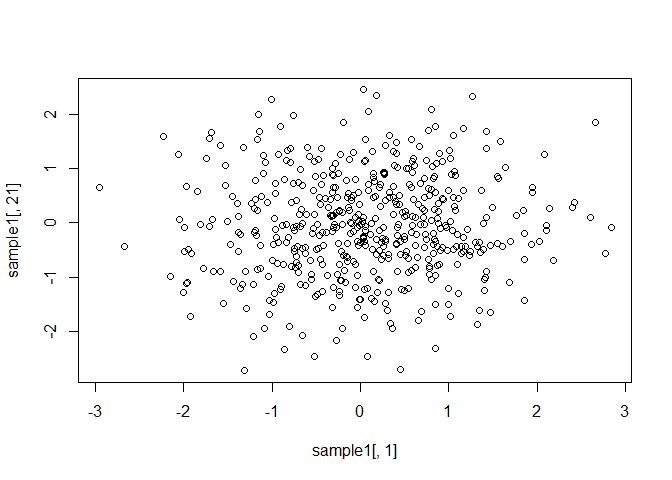
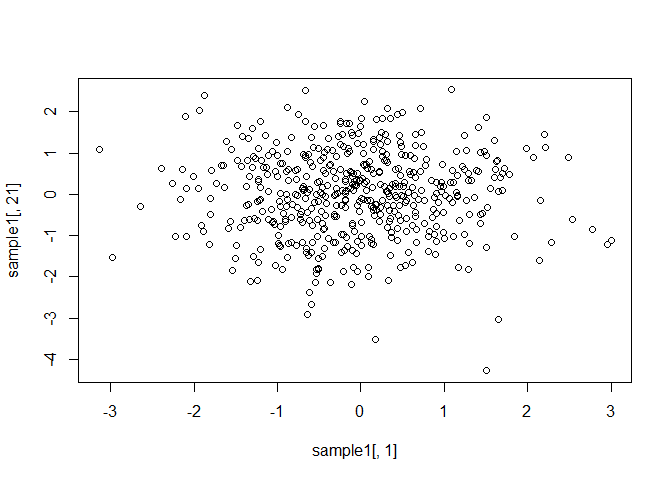
Rearrange the order of the README

diff --git a/README.md b/README.md
@@ -39,7 +39,15 @@ Then, use
 
 ## Example
 
-This is a basic example which shows how to use `rmvToep` function:
+The following is a basic example which shows how to use `rmvToep`
+function.
+
+To use the `rmvToep` function, a symmetric and Toeplitz-structured
+covariance matrix should be provided. `mvToep` package provides one
+class of covariance matrix that satisfies these conditions in
+`Sigma.AR.order` function, which is the covariance matrix of the
+autoregressive (AR) model. One can control the number of nonzero
+elements in this matrix by changing the `order` argument.
 
 ``` r
 library(MVToep)
@@ -63,18 +71,12 @@ plot(sample1[, 1], sample1[, 2])
 
 ``` r
 (cor(sample1[, 1], sample1[, 2]))
-#> [1] 0.7032641
+#> [1] 0.699893
 ```
 
-To use `rmvToep` function, a symmetric and Toeplitz-structured
-covariance matrix should be provided. `mvToep` package provides one
-class of covariance matrix which satisfies these conditions in
-`Sigma.AR.order` function, which is the covariance matrix of
-autoregressive (AR) model. One can control the number of nonzero
-elements in this matrix by changing `order` argument. Simply saying,
-this argument indicates the nonzero bandwidth of the matrix. Under the
-AR model, the corrrelation coefficient of neighborhood is known to be
-`rho`, which is matched with the above result.
+Simply saying, `order` argument indicates the nonzero bandwidth of the
+matrix. Under the AR model, the correlation coefficient of the
+neighborhood is `rho`, which matches the above result.
 
 ``` r
 plot(sample1[, 1], sample1[, 21])
@@ -84,7 +86,7 @@ plot(sample1[, 1], sample1[, 21])
 
 ``` r
 (cor(sample1[, 1], sample1[, 21]))
-#> [1] 0.04555786
+#> [1] 0.003299581
 ```
 
 In contrast, two indexes located far from each other show negligable
